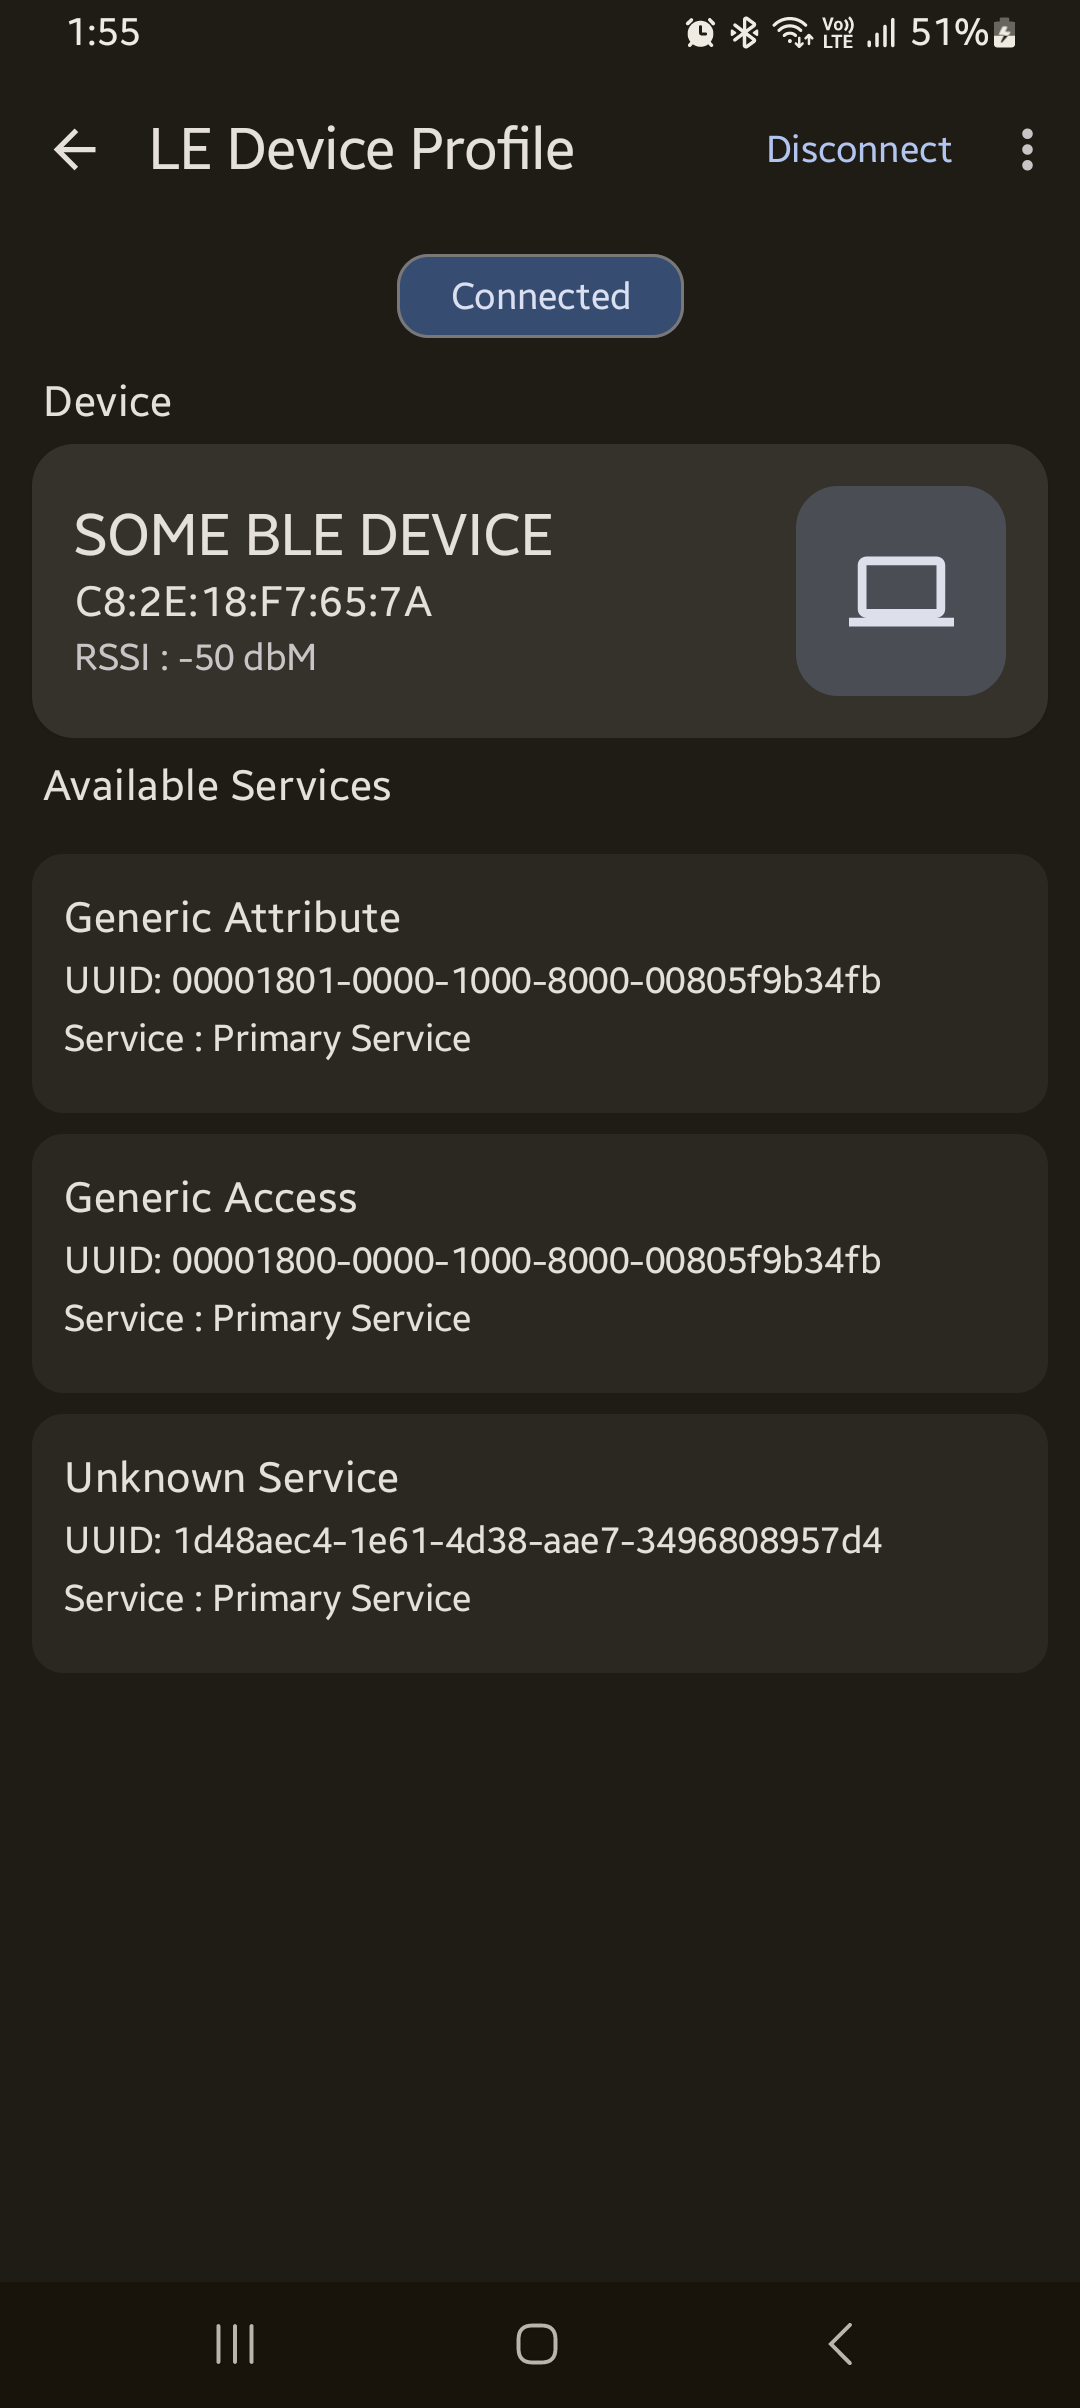
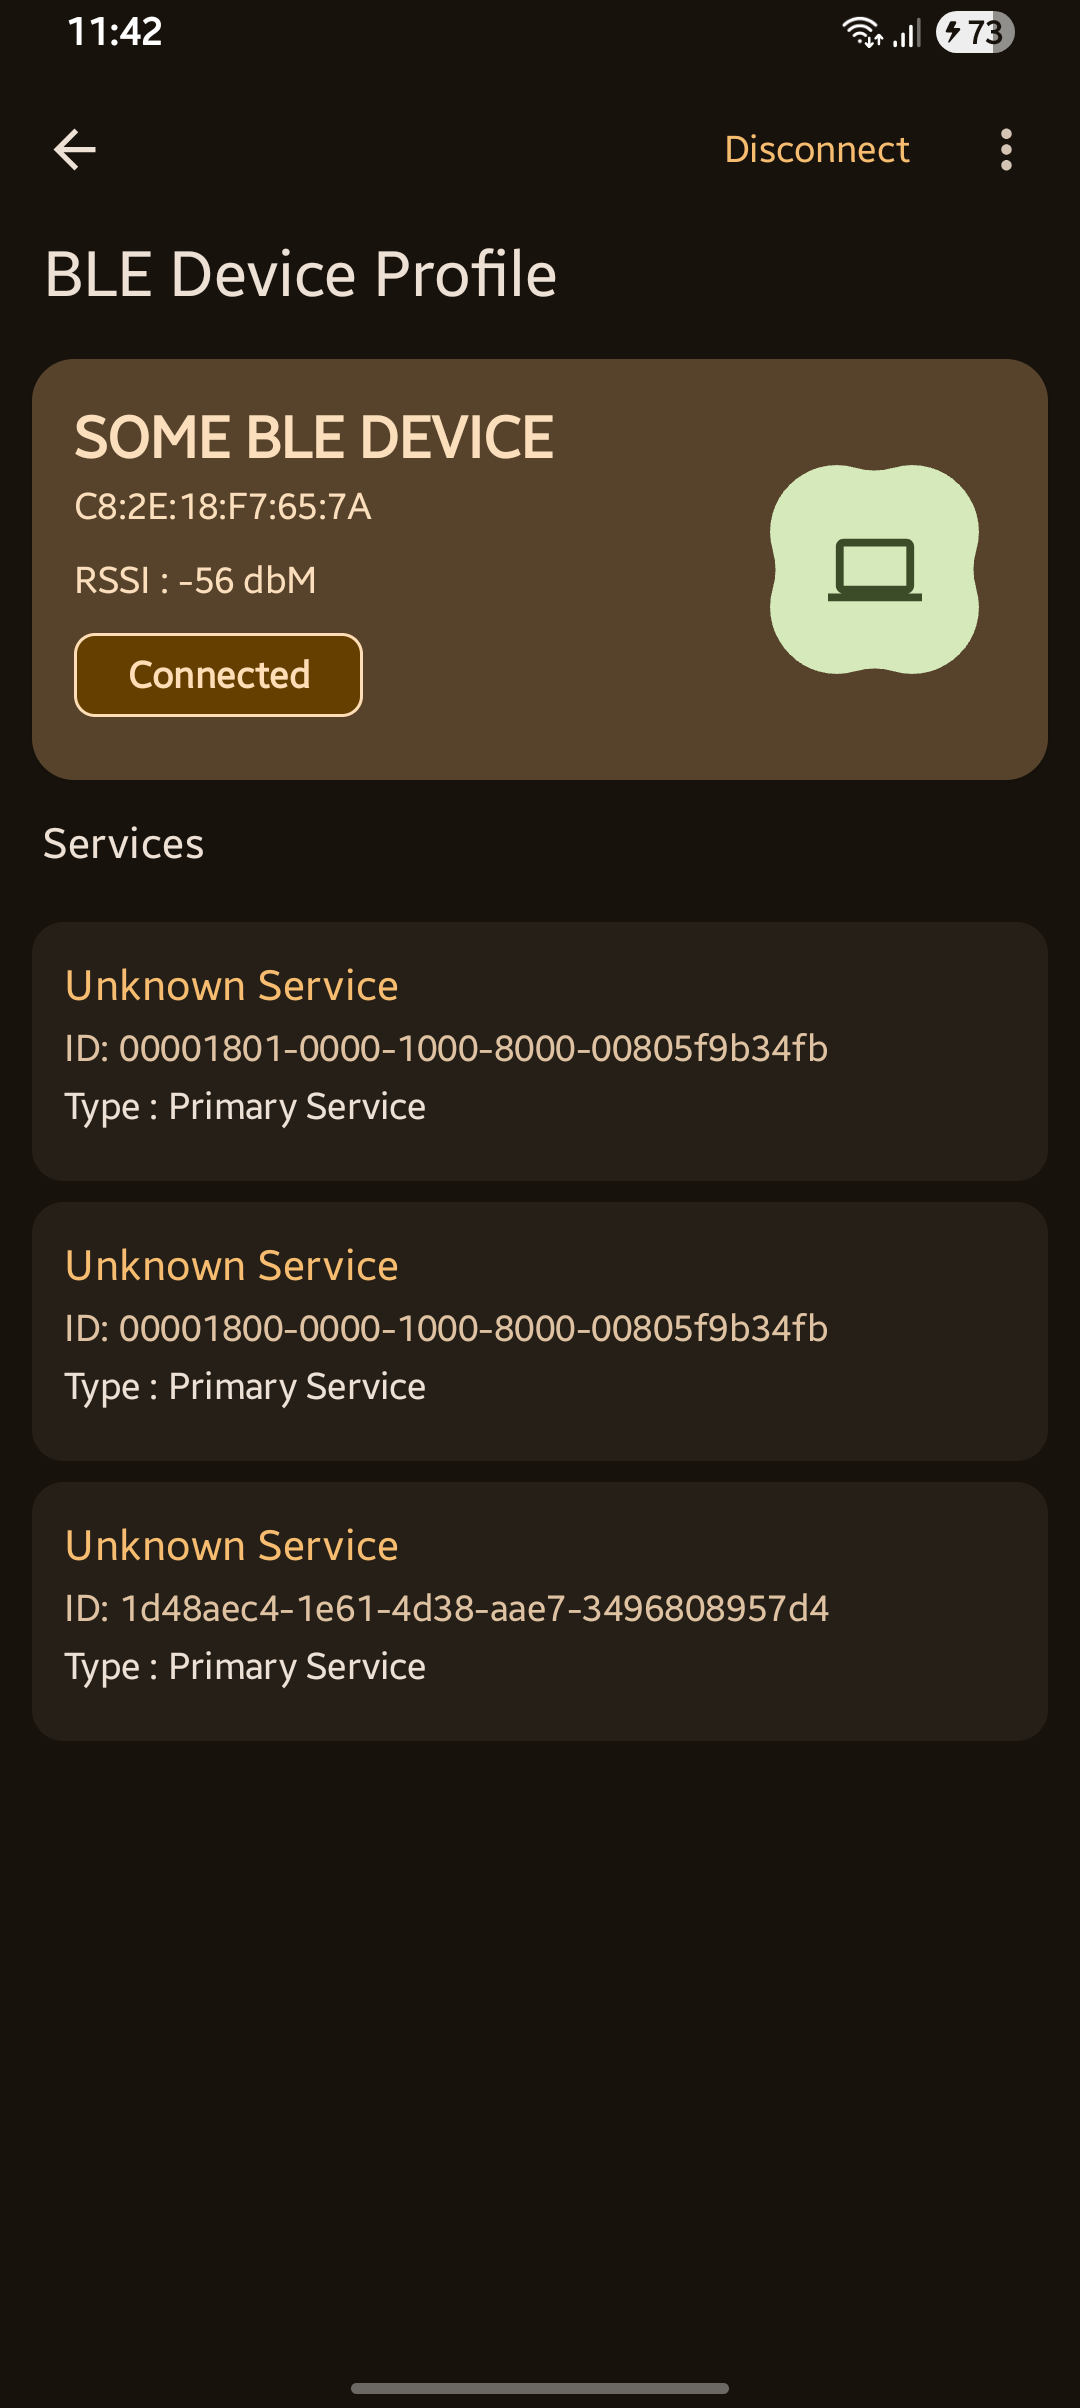
Created a release build and updated readme Release build is made using a keystore rather than the debug one this time. On other machine the signing config need to be configured to create a release build. in libs.versions.toml some dependencies are updated. README.md and all the screenshots are updat

diff --git a/README.md b/README.md
@@ -1,26 +1,26 @@
 # :large_blue_circle: Bluetooth Terminal App
 
 This Bluetooth Android Terminal App facilitates interaction with Bluetooth and Bluetooth Low
-Energy (BLE) devices. The app provides a user-friendly interface to manage connections, interact
-with devices.
+Energy (BLE) devices.The app provides a user-friendly interface to manage connections, interactwith
+devices.
 
 ## :information_desk_person: Description
 
 The Bluetooth Android Terminal App supports both classic Bluetooth and Bluetooth Low Energy (BLE)
 connections. It allows users to scan for available devices, establish connections, and communicate
 with connected devices.
-Additionally, the app includes a built-in server functionality for simple chat interactions between
-two devices running the same app
+Additionally, the app includes a built-in server functionality for simple interactions between two
+peers running the same app
 
 ## :performing_arts: Features
 
 ### Classic Bluetooth
 
 - **Devices:** Display a list of paired devices and available unpaired devices.
-- **Connect and Interact:** Allow the user to communicate with the connected device if the
-  connection is successfully made
-- **Chat Server:** Start a server within the app to connect to other phones and chat.
-- **Settings:** You can check out some settings for you customized communication
+- **Connect and Interact:** Allow the user to communicate with the connected device
+- **Chat Server:** Start a server within the app to connect to other phones and interact with
+  messages.
+- **Settings:** You can check customize the connection terminal for clients and server.
 
 ### Bluetooth Low Energy (BLE)
 
@@ -31,24 +31,22 @@ two devices running the same app
 
 ## :camera_flash: Screenshots
 
-These are some of the screens shots showing the working of basic bluetooth connection
+These are some of the screens shots showing the working of classic bluetooth connection
 
 <p align="center">
-   <img src="./screenshots/scanning_for_device.png" width="25%" />
-   <img src="./screenshots/connect_to_device_screen.png" width="25%"/>
-   <img src="./screenshots/pairing_request_dialog.png" width="25%"/>
-   <img src="./screenshots/close_connection.png" width="25%"/>  
-   <img src="./screenshots/classic_settings.png" width="25%"/>
+   <img src="screenshots/bt_classic_scan.png" width="20%" />
+   <img src="screenshots/bt_peer_features.png" width="20%"/>
+   <img src="screenshots/bt_client_talking.png" width="20%"/>  
+   <img src="screenshots/bt_classic_settings.png" width="20%"/>
 </p>
 
-This screenshots shows the working of a bluetooth low energy servics and characteristics
+This screenshots shows the working of a bluetooth low energy device connection
 
 <p align="center">
-   <img src="./screenshots/ble_scan_running.png" width="25%" />
-   <img src="./screenshots/ble_device_profile.png" width="25%"/>
-   <img src="./screenshots/ble_notify_characteristics.png" width="25%"/>  
-   <img src="./screenshots/ble_read_characteristics_with_descriptors.png" width="25%"/>
-   <img src="./screenshots/ble_settings.png" width="25%">
+   <img src="screenshots/ble_devices_scanning.png" width="20%" />
+   <img src="screenshots/ble_device_profile.png" width="20%"/>
+   <img src="screenshots/ble_notify_running.png" width="20%"/>  
+   <img src="screenshots/ble_settings.png" width="20%">
 </p>
 
 ## :building_construction: Getting Started
@@ -60,7 +58,6 @@ its functionalities
 
    ```bash
    git clone https://github.com/tuuhin/BTAndroidApp.git
-
    ```
 
 2. **Open Project**
@@ -71,9 +68,10 @@ its functionalities
 
 ### :curly_loop: Feedback and Support
 
-If you encounter any problems or bugs in the app ,please feel to open an issue
+If you encounter any problems or bugs in the app, please raise
+an [issue](https://github.com/tuuhin/BTAndroidApp/issues/new)
 
-### :woman_cook: Contributing
+### :man_cook: Contributing
 
 Contributions are alaways welcomed from the community
 
@@ -86,12 +84,14 @@ Contributions are alaways welcomed from the community
 ## :end: Conclusiion
 
 The Bluetooth Android Terminal App is a versatile tool for interacting with Bluetooth and BLE
-devices. While the app aims to provide a seamless experience, it may contain bugs. If you encounter
-any issues, please raise an issue on the GitHub repository.
+devices. While the app aims to provide a seamless experience and was created to debug esp32 based
+microcontroller which have bluetooth features.
+These seems complete for now , but if someone encounter any issues or bugs please raise
+an [issue](https://github.com/tuuhin/BTAndroidApp/issues/new)
 
 ### :revolving_hearts: Special Thanks
 
-Special thanks two most used bluetooth terminal apps.
+Special thanks two most used open sourced bluetooth terminal apps.
 
 - [Nordic Semiconductor android app](https://github.com/NordicSemiconductor/Android-nRF-Connect)
 - [Simple Bluetooth termial](https://github.com/kai-morich/SimpleBluetoothTerminal)
